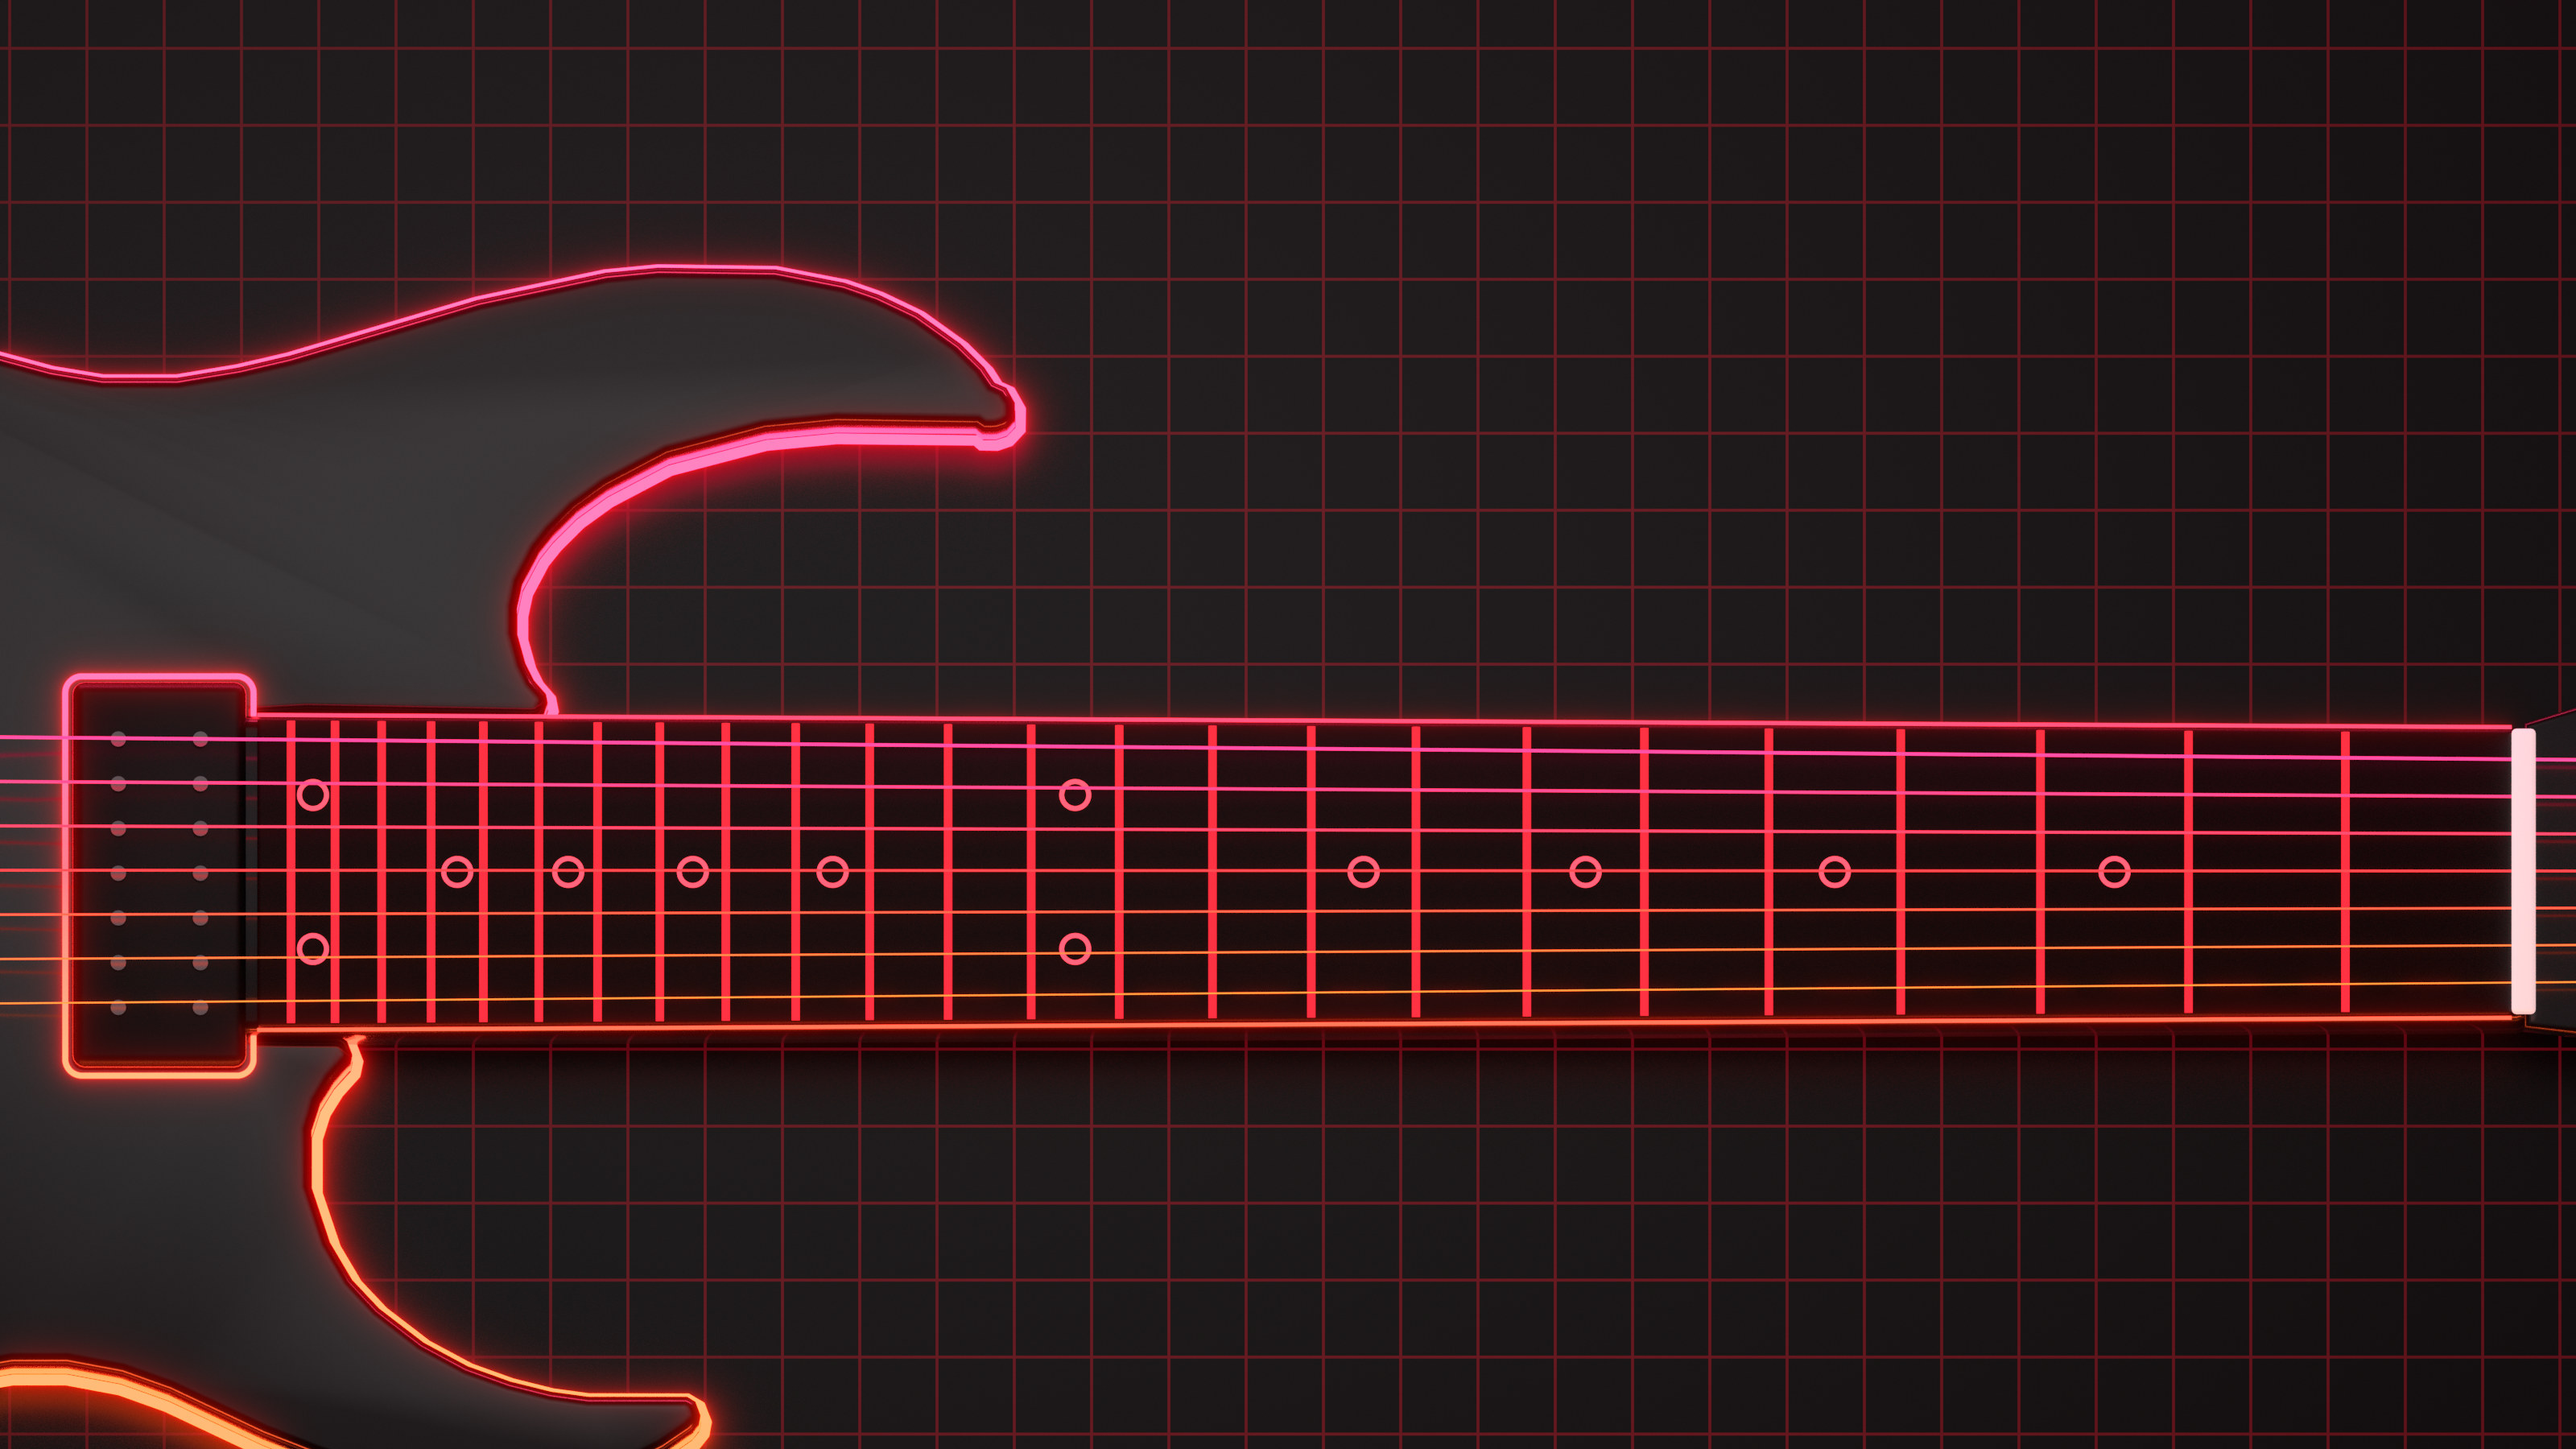
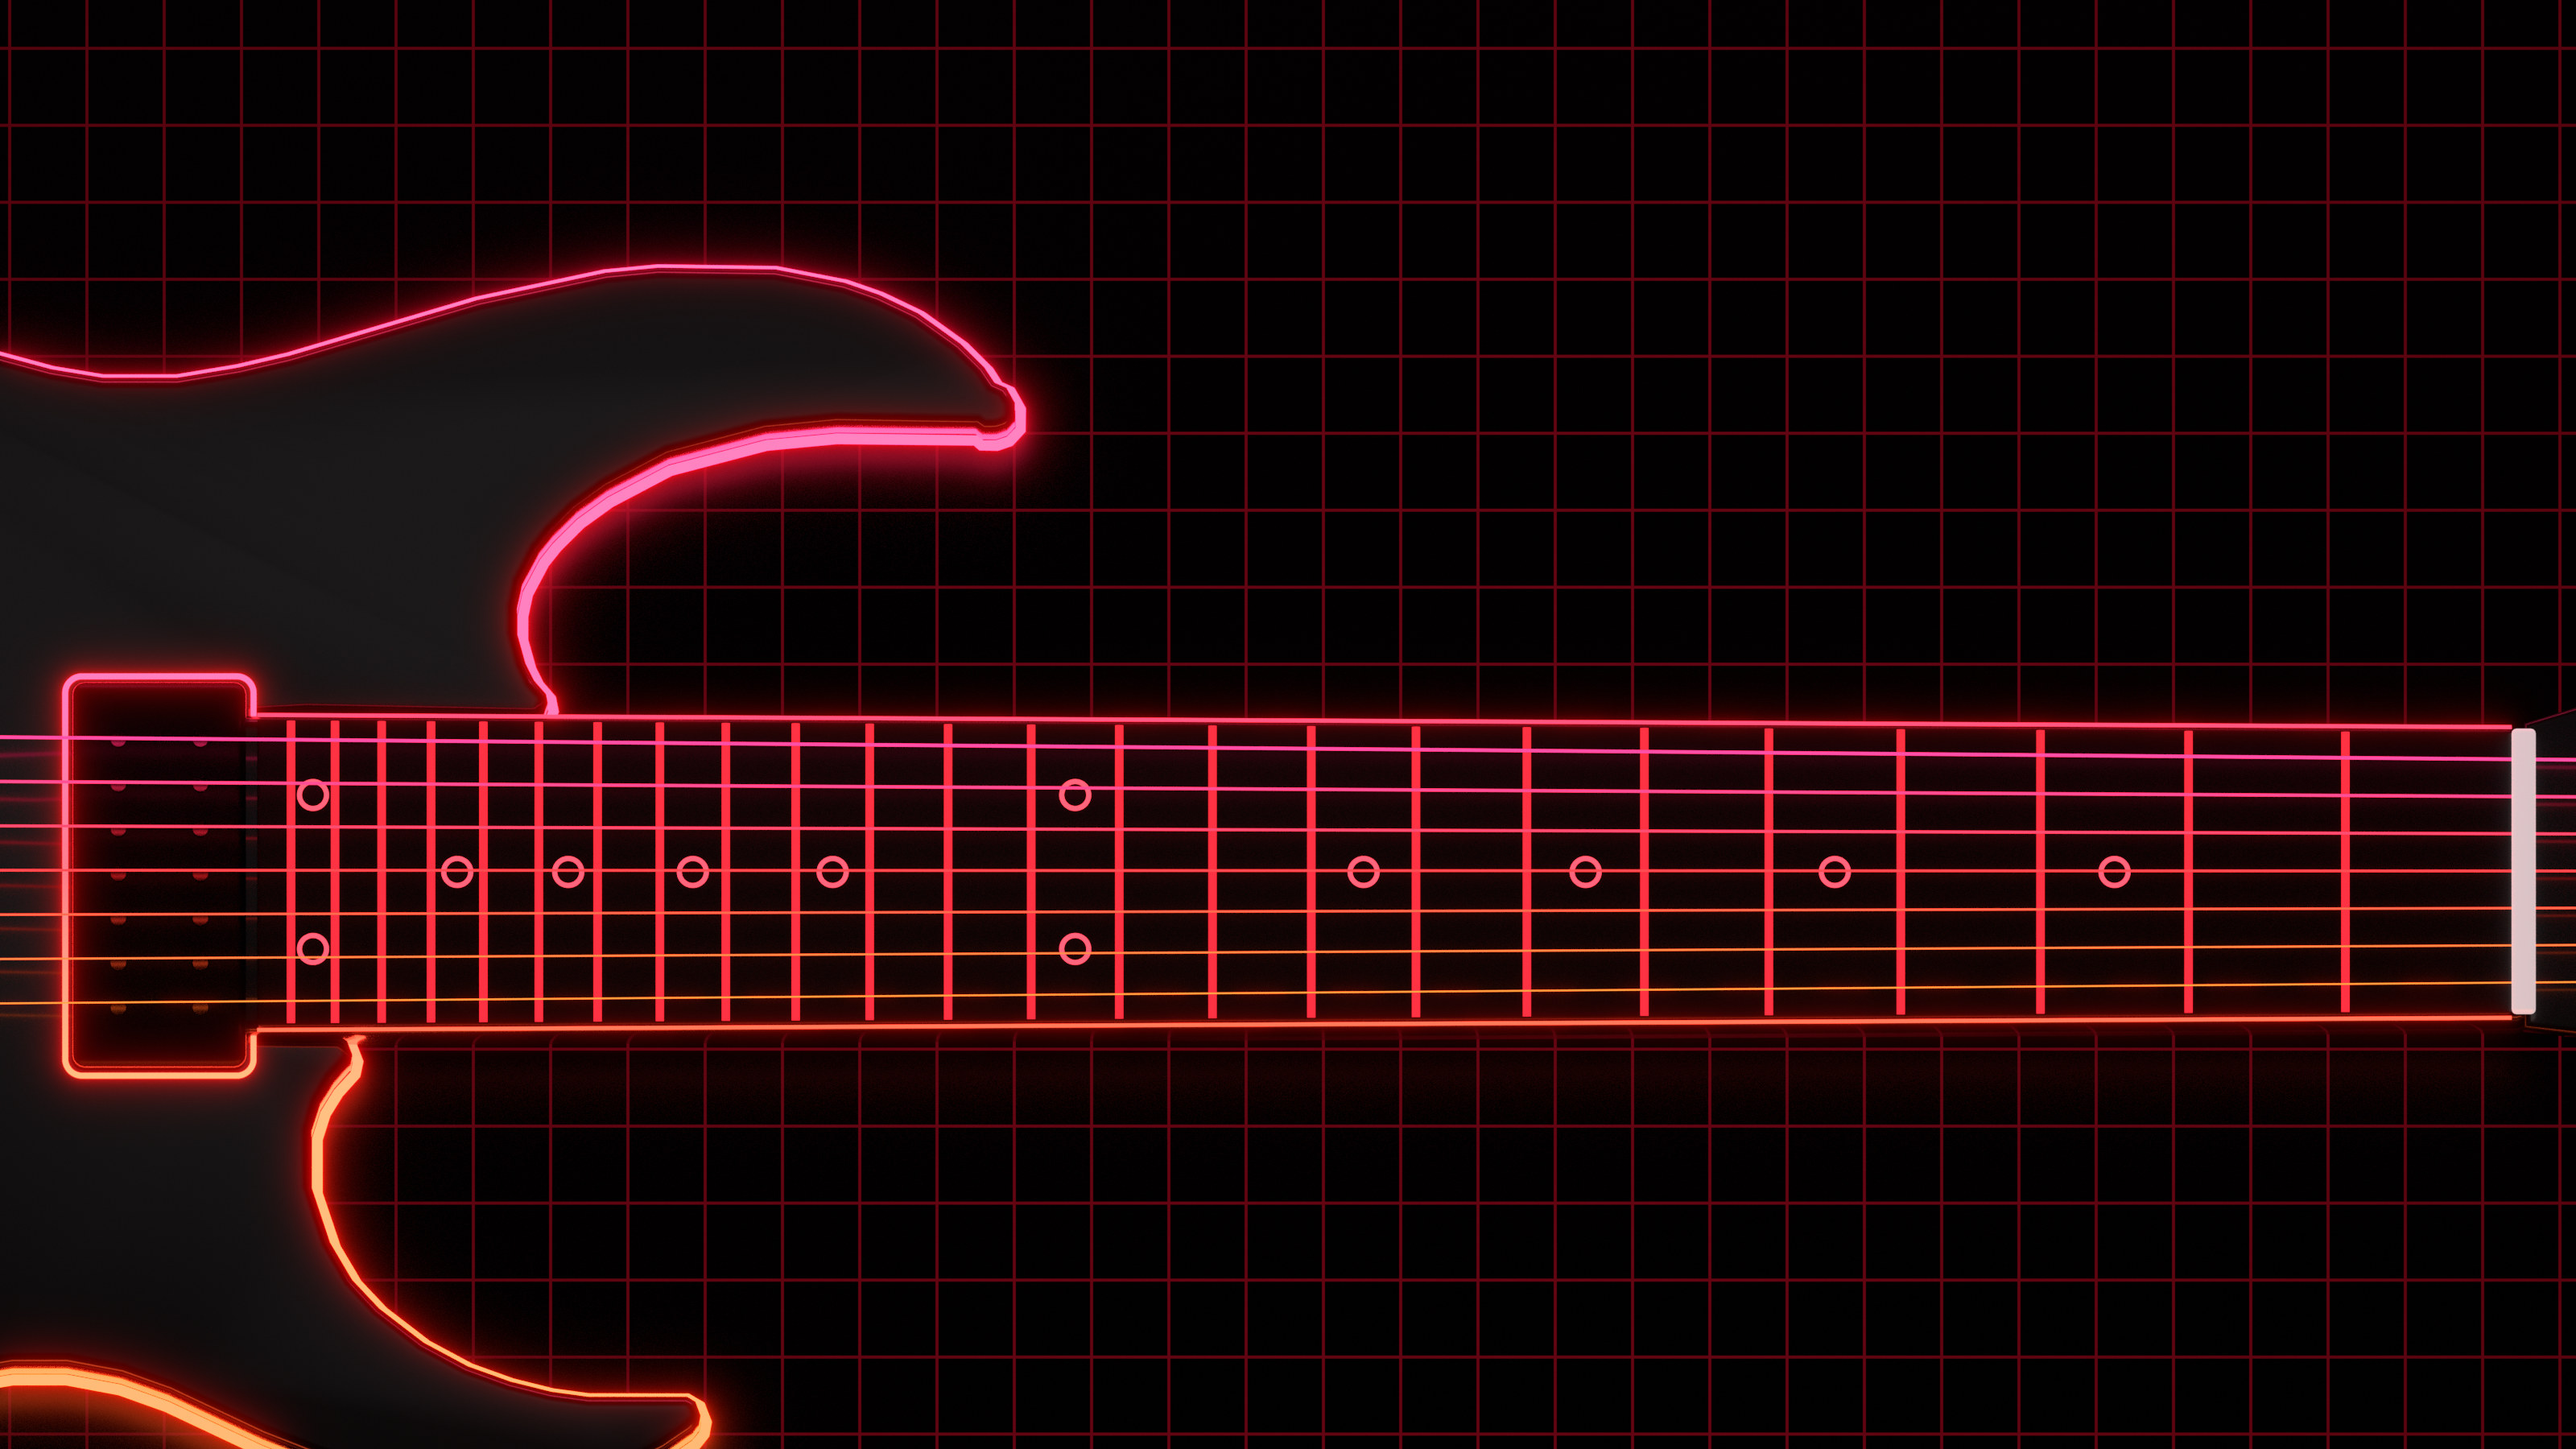
0.4.4: the GUITAR page's picture black again, not grey (lighting matched to PR7-D's kit)
The owner found the page "more grey than black" beside PR7-D. The guitar picture's floor and body measured about
27 of 255 against the kit's 3-5. Re-rendered with the scene's lights at a fifth (the gloss softbox only in
reflections and lit on the guitar alone): floor about 1, body about 24 with its sheen, the neon unchanged. All tests
(the page's colour check included) and pluginval pass.

Claude-Session: https://claude.ai/code/session_01DkHHwCHzQybJCknUhNQY56

diff --git a/CLAUDE.md b/CLAUDE.md
@@ -67,6 +67,7 @@ This repository starts as a copy of **Paragon PR7-D** (the drum instrument, repo
 - **0.4.0, the GUITAR page (`ui/GuitarView.*`), the owner's approved mock-up** (after three rounds: a flat strip, a body drawn from an Aristides photo ("awful"), a drawn superstrat ("still terrible"); then **the body traced off the owner's Ibanez RG 7 photo at their ask**, no name or logo; "that looks amazing!!!! build it"). **The look:** our own 3D guitar rendered in Blender (`resources/guitar/guitar3d.py`, as PR7-D's kit: gloss black body with a neon edge pink-to-orange by height, glowing frets / inlays, strings in `Fretboard::stringColour`, red-grid gloss floor), `process_guitar.py` pulls hues into the family's range, `guitar.jpg` (3200 x 1800 = the whole canvas at 2x) + `guitar-geometry.json` (where strings meet nut / bridge, frets, board edges, canvas px) as binary data `GuitarPicture`. **The scale is the reference's Main tab mirrored** (the owner's screenshot of Rogue): neck ~11-12% of the window and nearly parallel, frets 0-24 across it (scale 91% of 26.5", 3000 px/m), the body at real size so only its horns show; **headstock right, low A on top** (the owner's choice: "flip it"). `body-outline.json`: the traced outline in mm (OpenCV off the photo; the photo isn't committed). **Rendering again:** `blender -b -P guitar3d.py -- out.png 64 3200 1800` (~8 min, 4 cores), the 1x run with a json path writes the geometry; `GUITAR_VIEW=full` the whole guitar. **The page** fills the canvas under the header (`GuitarView::top` 62); controls float where the reference's are, mirrored: knob row TONE BITE ATTACK TRANSPOSE VEL>VOL RELEASE; POLY WINDOW, DOUBLE TRACKING (painted placeholder: stage 3), VARIATION (on/off + amount); OUTPUT box (LEVEL, OUTPUT, meter) where their pickup box is, KEY MAP toggles under it; under the neck PICKING / FRETTING / PERFORMANCE menus, FORCE STRING and HAND POSITION knobs, `ValueBox`es CAPO HAND SPAN HAND RESET MONO; NOW PLAYING (ours, where they have picks). Live on the neck: notes (dot / ring), string lit to the bridge, hand window + bracket, capo (drag from the nut, double-click off), forced string. Knobs use `ParamControl::setLabelBelow`.
 - **0.4.2, round-robins with copies left out:** the owner heard repeated palm mutes as worse than the reference ("repeated notes" and "palm mute / note endings"; they compare against the reference at its NORMAL settings: anti-repetition and release noises on). The cause found: imports keep only different takes (palm mutes ~3.7 of 8 a stroke), but the counter cycled 8 slots and `Library::at` filled a missing slot with the next one there, the first take: a chug played 1 2 3 1 1 1 1 1. Now `Library::at` steps through the takes there (`rr % count`), the counter runs to 840 (every count 1-8 divides it), NOW PLAYING counts the takes there (`Library::roundRobinsOf`). Sustain (both slots there) unchanged. Still open: note endings (the reference at normal settings plays release noises we haven't rendered; ours fade over RELEASE) and anti-repetition (our VARIATION, off by default: worth the owner trying again now that the order is fixed).
 - **0.4.3, the owner's A/B render** (a chug riff, 120 BPM 16ths on keys 36 / 38 / 41 / 45 with **C#-1 latched: all power chords**, palm-muted at velocity < 60; force-string keyswitches; every note-off on the next note-on, no rests; both renders 44.1 kHz mono 16-bit, **bounced from the first note (MIDI 2.0 s), not bar 1**, so `[ab-compare]`'s note times are 2 s off for these: line them up first). Measured (Python, `/tmp` scratch, not committed): pitches, levels, 100 ms decay and per-band spectrum match within ~1 dB; the reference's picks land **15-22 ms earlier** (pick-band 2-8 kHz alignment: 15 ms; broadband: 22 ms); the reference's attacks jump ~1.1 dB above the sound before them, PR7-I's ~0.6 dB; the 125 ms pulse is stronger in the reference (envelope autocorrelation 0.34 vs 0.23). A steady high-frequency floor in both (the reference's DI line noise at its normal settings?) hid how notes end. **Fixed: the 30 ms preroll** (`takeStartSeconds` 0.015: notes start 15 ms into each take, a 1 ms fade in). **Not yet changed, to judge by ear:** a released note still fades over RELEASE (80 ms) under the next note on its string (0.2.2's behaviour), so on these legato 16ths the old chord sounds through 80 of each 125 ms: the owner can try RELEASE ~10-20 ms; if tighter, re-picking a string could cut its ringing note (0.2.1 did; reverted with the machine-gun fix, never judged on its own). Also untried: VARIATION up (the reference ran with anti-repetition on), and real power-chord renders (PR7-I's power chords are three single-string takes added together; the riff is nothing but power chords).
+- **0.4.4, darker:** the owner: "too bright, it looks more grey than black" beside PR7-D. Measured: the guitar picture's floor and body at ~27 of 255, PR7-D's kit floor / shells ~3-5 (kit `whole-frame median` 9.2, its glows ~50 at the 90th percentile, about ours). `guitar3d.py`: `LIGHT` 0.2 (lights and world x 0.2), `RIM` 0.4, floor base 030203, the softbox reflection-only (`visible_diffuse` off) and light-linked to the guitar only (Blender 4.0 `light_linking.receiver_collection`), `GUITAR_SHEEN` 0.15: floor ~0.5-1, body ~24, whole frame ~3. Measure blacks by region, not by "low saturation": near-black pixels with a faint red tint count as coloured.
 - **0.4.0 engine / processor:** `FretSettings::capo / span`, `handSpan (mode, span)`, `followHand (..., span, capo)` (capo's fret = open); `Settings::capo, handSpan, handResetSeconds, mono, attack`; `PickMode::economy` (crossing to the next string the way the pick moves keeps the stroke); MONO (newest / highest source only, other held voices stopped); ATTACK (voice gain x (1 + 1.5 x attack x vel/127) decaying, tau 10 ms: not a pick-noise sample); `getNowPlaying` (atomics). `guitar/PolyWindow.*`: every event delayed by the window (latency reported via AsyncUpdater), note-ons within it pulled to the first one's sample, keyswitches first, never past an earlier note-off of the same key. BITE: RBJ peak 400 Hz Q 0.9 -6 dB and 3 kHz shelf +6 dB at full. PERFORMANCE is not a parameter: `applyPerformance` sets fretMode / mono / handSpan / handPosition, `currentPerformance` shows the match or Custom. Parameters hint 4: `capo`, `handSpan` (choices Auto, 2..8), `handReset`, `mono`, `polyWindow`, `bite`, `attack`; `pickModeNames` + Economy. Tests: GuitarTests (capo / span fretting, mono, economy, attack, hand reset, capo played, now playing, poly window), PluginTests (the page's controls, capo drag, performance, **the page's pixels all in the family's hues** (the palette test 0.3.0 asked for), BITE levels, latency, old presets).
 
 ## Rules (from the owner and the family's CLAUDE.md files)

diff --git a/CHANGELOG.md b/CHANGELOG.md
@@ -2,6 +2,14 @@
 
 Each version's notes appear on its GitHub Release page.
 
+## 0.4.4
+
+**The GUITAR page is black again, not grey.** You were right that it looked greyer than PR7-D, so I measured both.
+
+- **What was wrong:** the floor and the body in the guitar picture sat at a brightness of about 27 out of 255. The same parts of PR7-D's drum kit picture sit at about 5. The glowing parts matched; only the blacks had come out dark grey.
+- **Why:** the lights in the guitar's 3D scene were about five times brighter than they needed to be, and the light that gives the body its gloss was also lighting the floor.
+- **Now** the lights are at a fifth of what they were, and the gloss light only touches the guitar. The floor is black (about 1, the kit's is 3), and the body keeps a faint gloss (about 24, a kit drum shell is about 30). The neon edges, frets, strings and grid are unchanged.
+
 ## 0.4.3
 
 **Notes land on time.** Your A/B render showed PR7-I's picks landing about 15 ms after your guitar instrument's. This fixes it.
